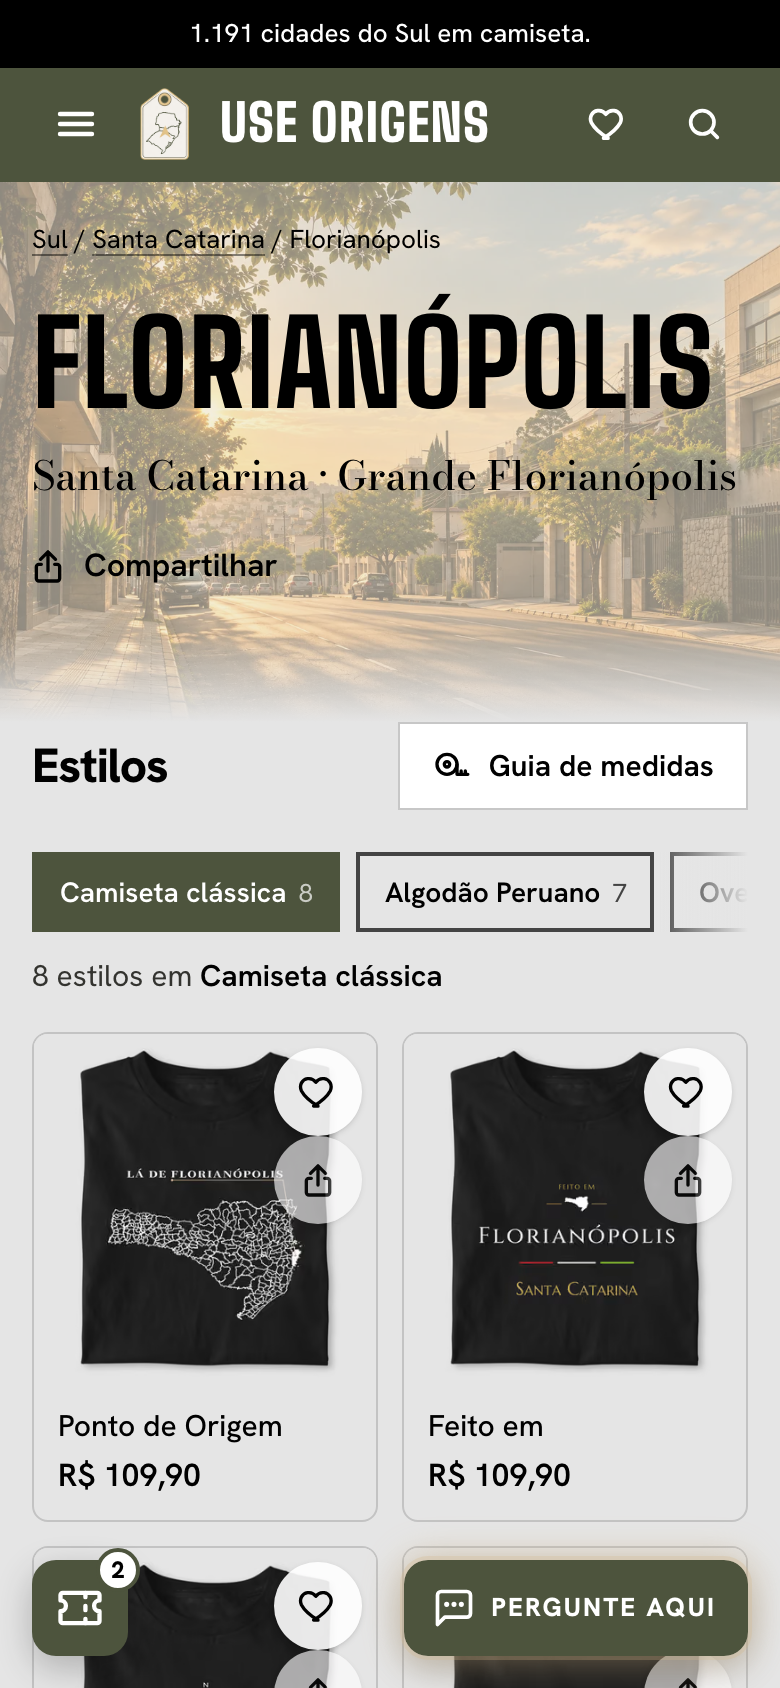
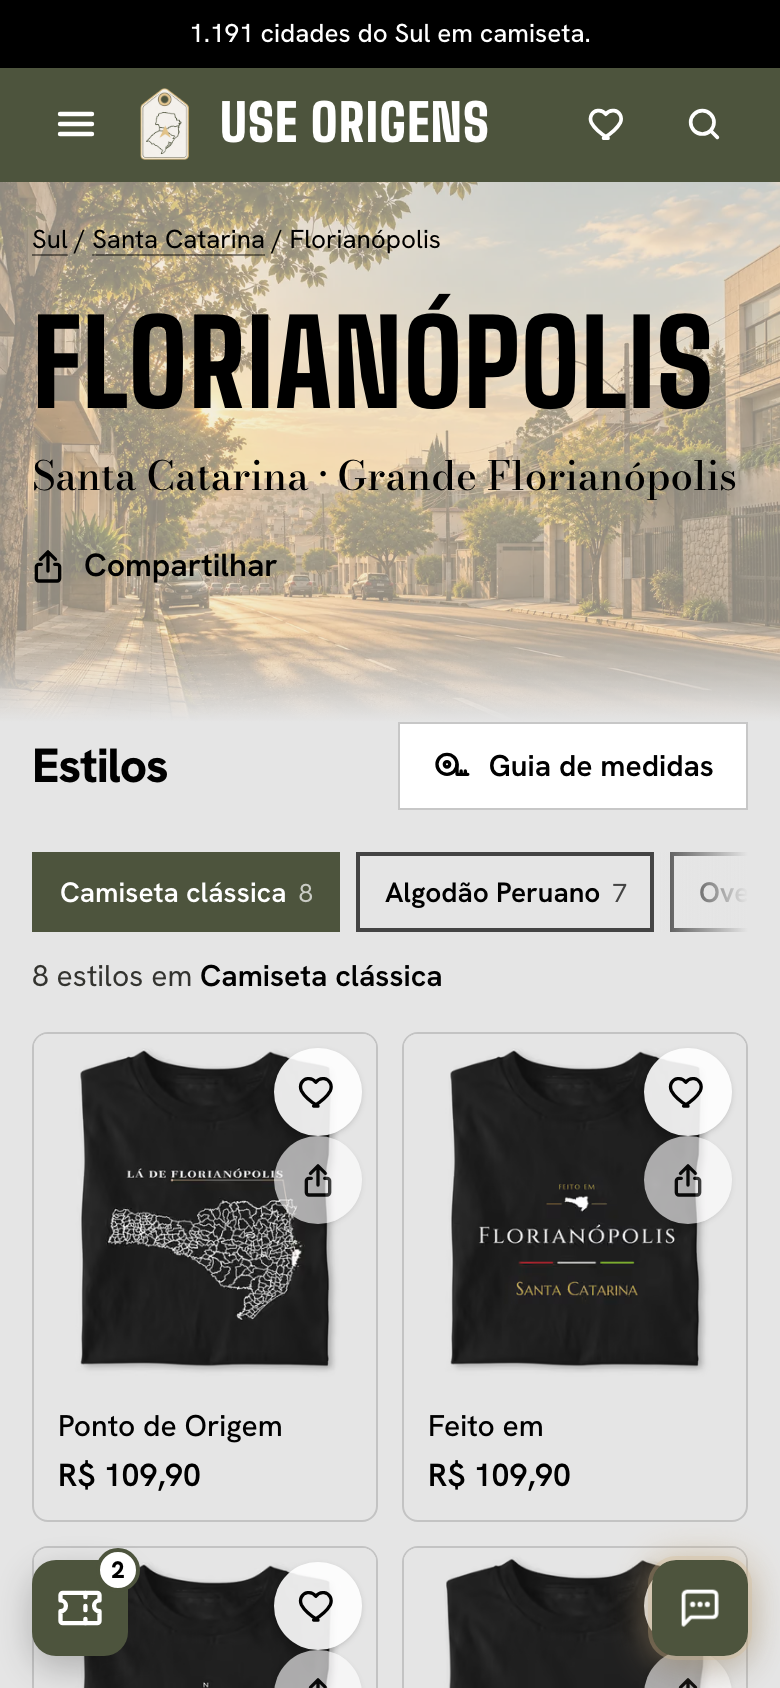
feat(storefront): no celular, o botão do assistente é só o ícone
Pedido do dono (26/10): para não disputar a atenção com a loja. Abaixo de 640px, um quadrado de 48px com o balão (como o botão de cupons);
o texto ("Pergunte aqui" ou "Fechar") fica no botão para leitores de tela. No computador, nada muda. Prints atualizados.

Changed region(s): [[0.4923, 0.8934, 0.9231, 1.0]]

diff --git a/src/components/assistant/AssistantWidget.tsx b/src/components/assistant/AssistantWidget.tsx
@@ -520,12 +520,13 @@ export function AssistantWidget({ region, opening, mode = "live", ask, whatsapp,
         className={[
           "assistant-fab",
           position,
-          "z-30 inline-flex h-12 items-center gap-2 rounded-xl bg-[var(--region-primary,#111)] pl-3.5 pr-4 text-[0.8125rem] font-extrabold uppercase tracking-[0.08em] text-white shadow-[0_6px_18px_rgb(0_0_0/0.24)] outline-offset-4 transition-transform duration-200 hover:-translate-y-0.5 active:translate-y-0 sm:h-14 sm:pl-4 sm:pr-5",
+          // Phones: the icon alone (a 48px square), so the button never competes with the store; the word stays for screen readers.
+          "z-30 inline-flex h-12 w-12 items-center justify-center gap-2 rounded-xl bg-[var(--region-primary,#111)] text-[0.8125rem] font-extrabold uppercase tracking-[0.08em] text-white shadow-[0_6px_18px_rgb(0_0_0/0.24)] outline-offset-4 transition-transform duration-200 hover:-translate-y-0.5 active:translate-y-0 sm:h-14 sm:w-auto sm:justify-start sm:pl-4 sm:pr-5",
           live ? "bottom-[calc(max(1rem,env(safe-area-inset-bottom))+var(--assistant-bottom))] right-[max(1rem,env(safe-area-inset-right))]" : "bottom-4 right-4",
         ].join(" ")}
       >
         <ChatIcon />
-        {open ? "Fechar" : label}
+        <span className="sr-only sm:not-sr-only">{open ? "Fechar" : label}</span>
       </button>
     </div>
   );

diff --git a/docs/storefront/assistente.md b/docs/storefront/assistente.md
@@ -8,7 +8,8 @@ do oria-worker): tudo o que ele responde vem da loja.
 ## Botão, temas fixos e brilho
 
 - **Texto do botão:** "Pergunte aqui" por padrão, porque o chat também acha estampas, não só resolve problema. É também o título do chat.
-  Até 18 caracteres: em maiúsculas e espaçado, um texto maior cobriria a página no celular.
+  Até 18 caracteres. **No celular (abaixo de 640px), o botão é só o ícone** (um quadrado de 48px, como o de cupons), para não disputar a
+  atenção com a loja. O texto continua no botão para leitores de tela.
 - **Temas fixos:** até 4 botões sempre acima do campo, a conversa inteira (padrão: Achar estampa · Rastrear pedido · Trocar pedido ·
   Frete e prazo). Tocar num tema é o mesmo que enviar o texto dele: o motor responde como a qualquer pergunta. Com a base da INK, "Achar
   estampa" pede a cidade ou o tema, "Rastrear pedido" e "Trocar pedido" dão a resposta da loja com as páginas de pedidos e "Frete e prazo"
